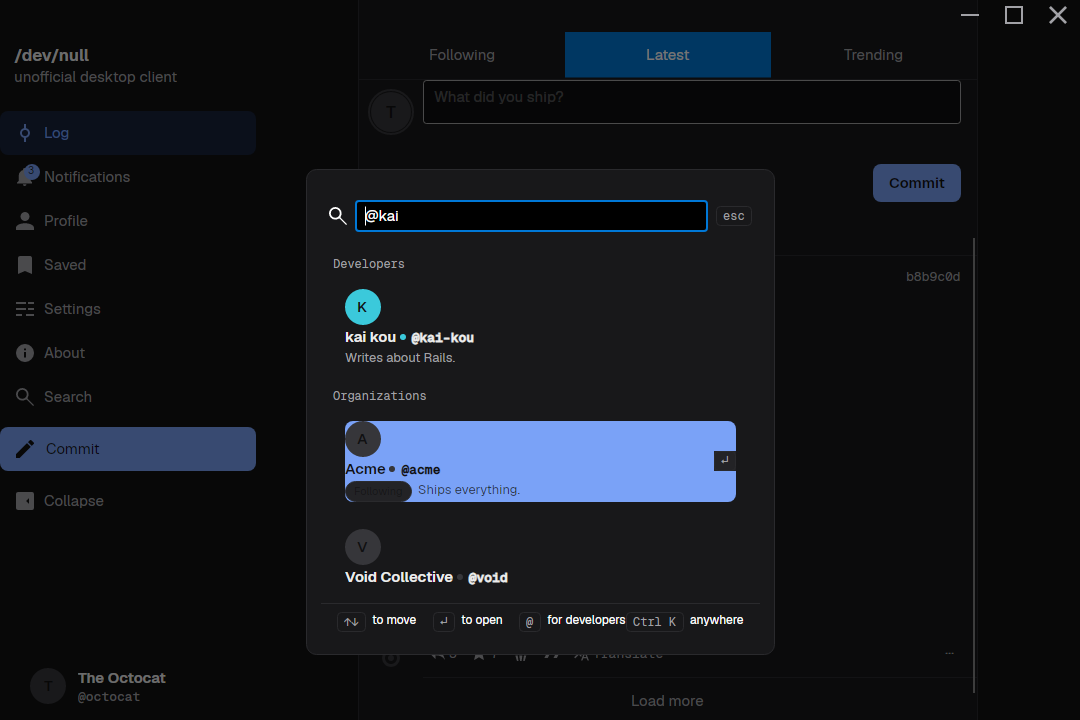
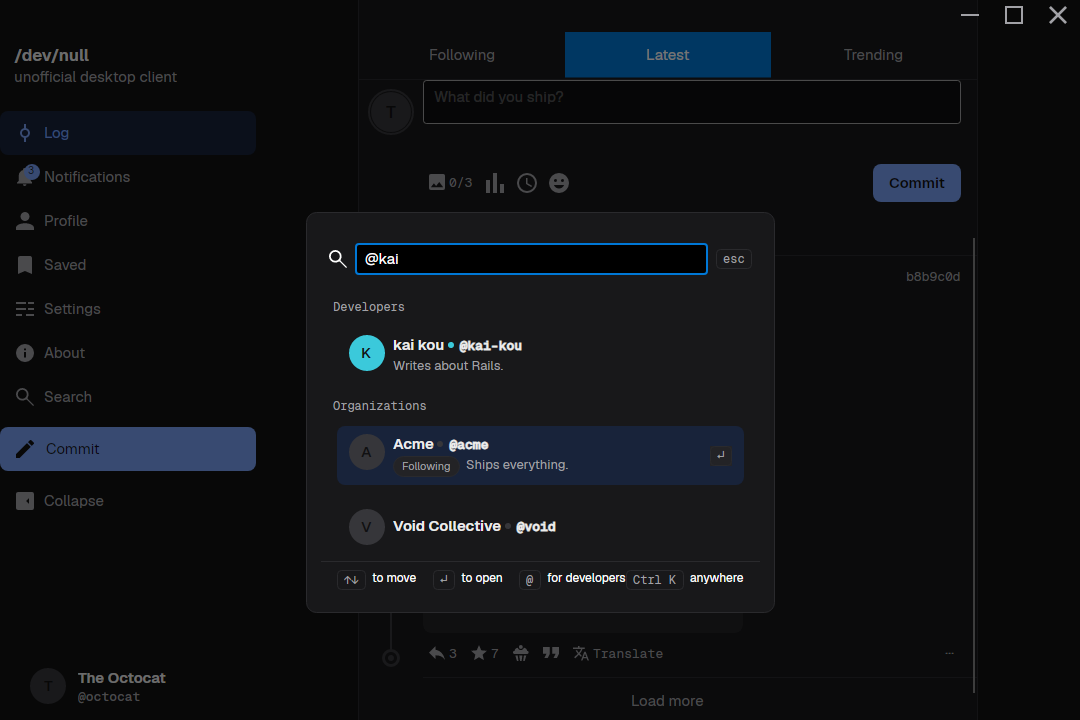
fix: the search rows keep the app style and the palette holds short windows (#2)

diff --git a/CHANGELOG.md b/CHANGELOG.md
@@ -9,7 +9,7 @@ and this project adheres to [Semantic Versioning](https://semver.org/spec/v2.0.0
 
 ### Added
 
-- **Search:** organizations join the results — the search palette and the search page show matching organizations under their own heading below the people, the keyboard walks people and organizations as one list, and a result opens the organization's page; the client now reads the site's profile search and no longer calls the deprecated people endpoint.
+- **Search:** organizations join the results — the search palette and the search page show matching organizations under their own heading below the people, the keyboard walks people and organizations as one list, and a result opens the organization's page; the client now reads the site's profile search and no longer calls the deprecated people endpoint, and in a short window the palette keeps its input and footer in place while its list scrolls inside the card.
 - **Profile:** the follower and following counts open their lists — each row carries the follow control with "Follow back" for people who follow you, and the Following list gains an Organizations section above the people with its own show-more.
 
 ### Fixed
